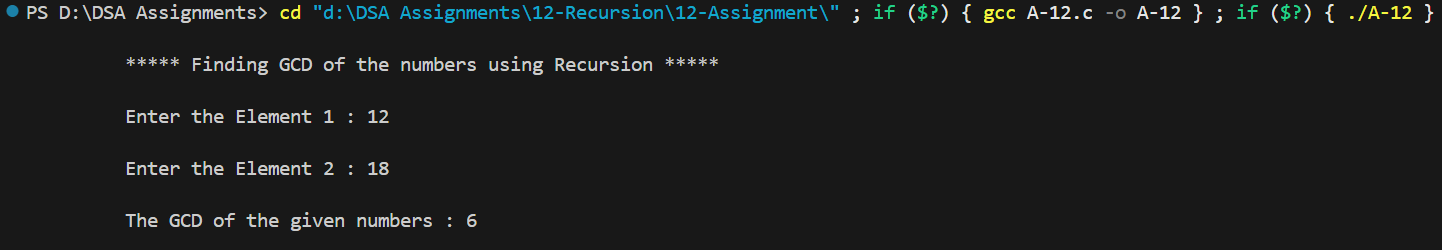
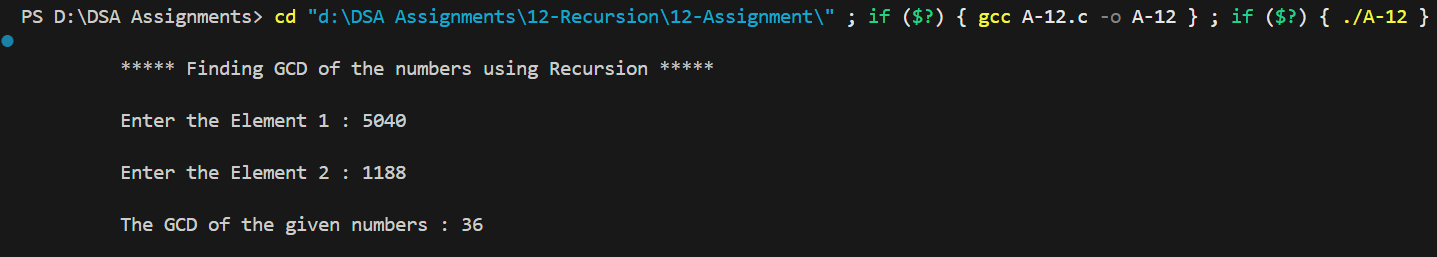
Recursion Assignment No. 12

diff --git a/12-Recursion/12-Assignment/A-12.c b/12-Recursion/12-Assignment/A-12.c
@@ -6,7 +6,7 @@
 #include<stdlib.h>
 
 int factors(int**,int,int,int);
-int gcd(int**,int,int,int,int[],int);
+int prime_or_not(int,int);
 
 int main() {
     printf("\n\t ***** Finding GCD of the numbers using Recursion ***** \n");
@@ -19,8 +19,10 @@ int main() {
         printf("\n\t Memory Allocation Failed! \n\n");
         exit(1);
     }
+    
+    int factor_size[2];
 
-    int common_factor_length = 1,common_factor_index = 0;
+    int common_factor_length = 1;
 
     while (n != 0) {
         int j = 0;
@@ -32,39 +34,42 @@ int main() {
         
         printf("\n\t Enter the Element %d : ",i+1);
         scanf("%d",&arr[i][j]);
+        
+        factor_size[i] = factors(arr,i,j,arr[i][j]);
 
-        int c_f;
-        c_f = factors(arr,i,j,arr[i][j]);
-
-        if (c_f < common_factor_length) {
-            common_factor_length = c_f;
-            common_factor_index = i;
+        if (factor_size[i] > common_factor_length) {
+            common_factor_length = factor_size[i];
         }
 
         i++,n--;
     }
 
-    int *common_factor = NULL;
-    common_factor = malloc(common_factor_length*sizeof(int));
-    if (common_factor == NULL) {
-        printf("\n\t Memory Allocation Failed! \n\n");                
-        exit(1);
-    }
-
-    n = gcd(arr,i-1,common_factor_index,common_factor_length+1,common_factor,0);
-
-    if (n == 1) {
-        printf("\n\t The GCD of the given numbers : %d \n\n",common_factor[0]);
+    int gcd = 1;
+    if (factor_size[0] == factor_size[1]) {
+        for (int x = 0 ; x < common_factor_length ; x++) {
+            if (arr[0][x] == arr[1][x]) {
+                gcd *= arr[0][x];
+            }
+        } 
     } else {
-        int largest = common_factor[0];
-        for (int u = 1 ; u < n ; u++) {
-            if (common_factor[u] > largest) {
-                largest = common_factor[u];
+        int temp;
+        if (factor_size[0] > factor_size[1]) {
+            temp = factor_size[0];
+            factor_size[0] = factor_size[1];
+            factor_size[1] = temp;
+        }
+        for (int x = 0 ; x < factor_size[0] ; x++) {
+            for (int y = 0 ; y < factor_size[1] ; y++) {
+                if (arr[0][x] == arr[1][y]) {
+                    gcd *= arr[0][x];
+                    arr[1][y] = 0;
+                    break;
+                }
             }
         }
-
-        printf("\n\t The GCD of the given numbers : %d \n\n",largest);
     }
+
+    printf("\n\t The GCD of the given numbers : %d \n\n",gcd);
 
     if (arr != NULL) {
         for (int f = 0 ; f < i ; f++) {
@@ -74,44 +79,53 @@ int main() {
         arr = NULL;
     }
 
-    free(common_factor);
-    common_factor = NULL;
-
     return 0;   
 }
 
 int factors(int **arr,int i,int j,int n) {
-    if (arr[i][j] == 1) return j+1;
-    
-    if (arr[i][0] % n == 0) {
-        arr[i] = realloc(arr[i],(j+2)*sizeof(int));
-        if (arr[i] == NULL) {
-            printf("\n\t Memory Allocation Failed! \n\n");                
-            exit(1);
-        }
-
-        arr[i][++j] = n;
-    }
-
-    factors(arr,i,j,--n);
-}
-
-int gcd(int **arr,int n,int i,int j,int common_factor[],int t) {
-    if (j == 0)    return t;
-
-    int flag = 0;
-    for (int h = 0 ; h < n+1 ; h++) {
-        for (int f = 1 ; h != i && arr[h][f-1] != 1 ; f++) {
-            if (arr[i][j] == arr[h][f]) {
-                flag++;
-                break;
+    if (prime_or_not(n,2)) {
+        if (j != 0) {
+            arr[i] = realloc(arr[i],(j+1)*sizeof(int));
+            if (arr[i] == NULL) {
+                printf("\n\t Memory Allocation Failed! \n\n");                
+                exit(1);
             }
-        }
+        } 
+        arr[i][j] = n;
+        return j+1;
+    }
+    if (n == 1) return j;
+
+    int m;
+    for (m = 2 ; m < 9 ; m++) {
+        if (n % m == 0 && n == m && j == 0) {
+            arr[i][j] = m;
+            return j+1;
+        } else if (n % m == 0) {
+            if (j == 0) {
+                arr[i][j] = m;
+            } else {
+                arr[i] = realloc(arr[i],(j+1)*sizeof(int));
+                if (arr[i] == NULL) {
+                    printf("\n\t Memory Allocation Failed! \n\n");                
+                    exit(1);
+                }
+            }
+            arr[i][j] = m;
+            j++;
+            break;
+        } 
     }
 
-    if (flag == n) {
-        common_factor[t++] = arr[i][j];
-    }
-
-    gcd(arr,n,i,--j,common_factor,t);
+    factors(arr,i,j,n/m);
 }
+
+int prime_or_not(int n,int m) {
+    if (n == 1) return 0;
+    
+    if (n%m == 0 && m != n) { return 0; }
+    else if (m == n) { return 1; }
+    else { prime_or_not(n,++m); }   
+}
+
+
